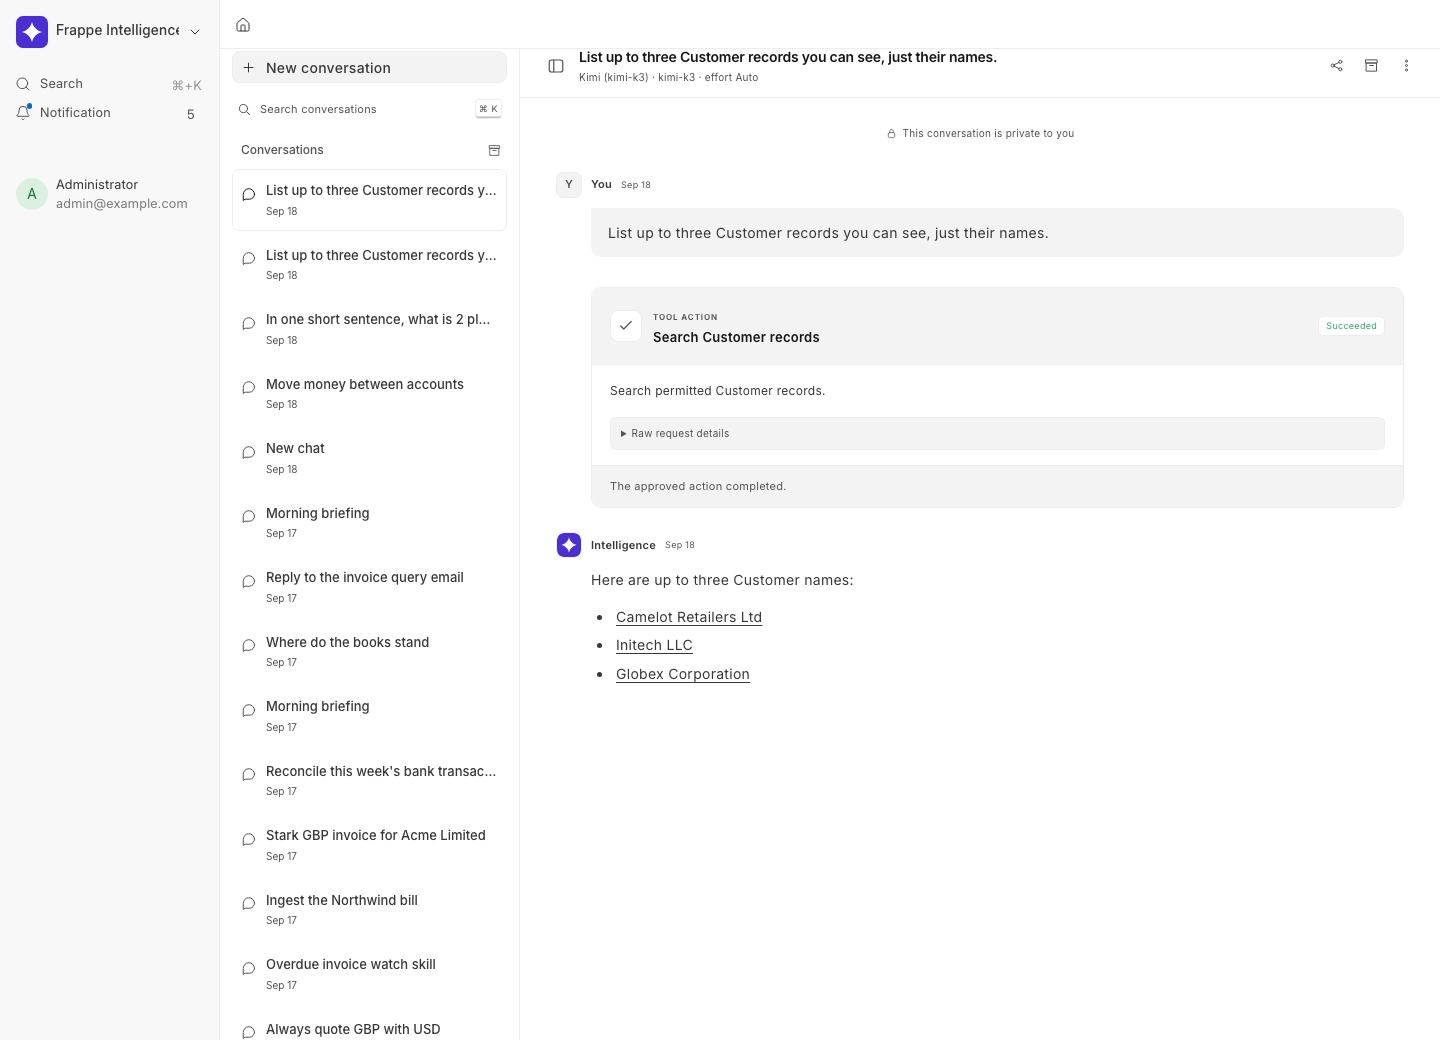
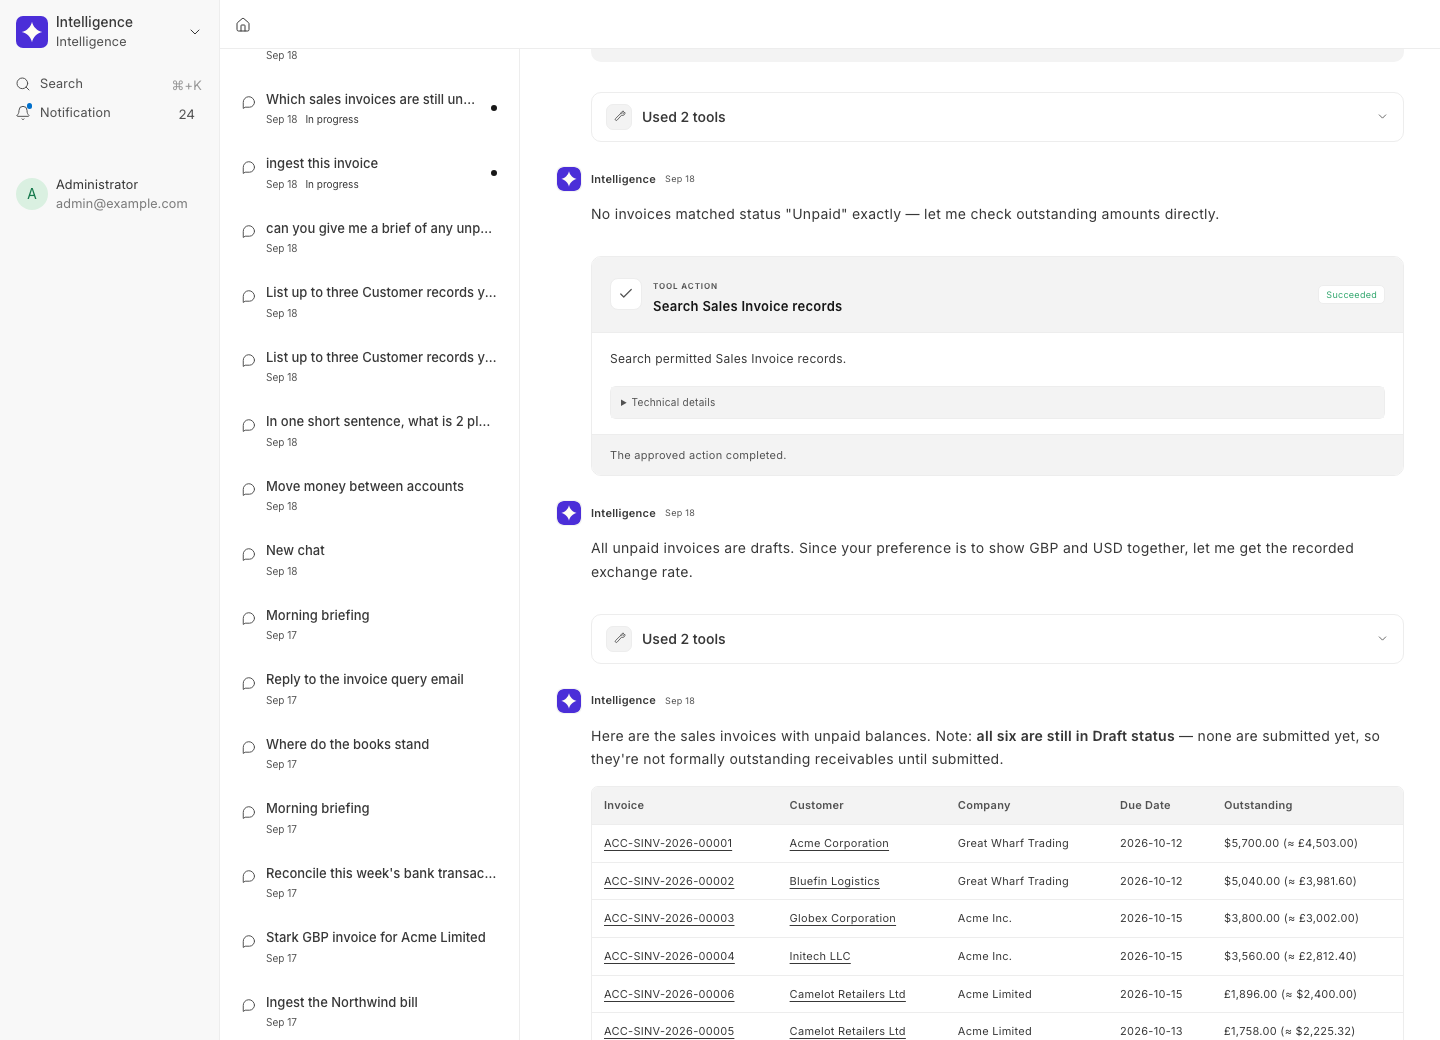
docs: refresh screenshots and verification record for v0.5.0
Swap in captures from the live 0.5.0 verification session: the pending
approval card, the narrated two-tool answer with linked invoices, and
the follow-up answer grouping those invoices by customer. The
verification record now documents the 0.5.0 live pass.

diff --git a/docs/verification.md b/docs/verification.md
@@ -97,6 +97,10 @@ Image `ghcr.io/greatwharf/frappe-intelligence:0.3.2` (commit `8fedcdf`) was depl
 
 Every write in these runs went through an approval card; the assistant holds no service-account privileges.
 
+## Live verification of 0.5.0, 18 September 2026
+
+Image `ghcr.io/greatwharf/frappe-intelligence:0.5.0` (tag `v0.5.0`, commit `2df801a`) was deployed to the same disposable ERPNext v16 site and driven through a real Chromium session. Verified end to end: a single "Intelligence" entry on the apps screen and in the Desk sidebar, same-tab navigation into `/desk/intelligence`, the composer pinned to the viewport at desktop and phone widths, the inline provider picker, approval cards with **Always allow** (the standing grant auto-approved the repeat search in the follow-up run with zero further prompts), collapsed tool groups with narration between steps, and an AI-generated conversation title ("Unpaid Sales Invoices Overview") replacing the placeholder after the first reply. Captures: [screenshots/approval-waiting.png](screenshots/approval-waiting.png), [screenshots/conversation-answer.png](screenshots/conversation-answer.png), [screenshots/follow-up-answer.png](screenshots/follow-up-answer.png).
+
 ## Remaining validation boundaries
 
 - Actual Frappe/ERPNext install, migration, native permission dispatch and RQ/realtime behavior on the target site.

diff --git a/README.md b/README.md
@@ -84,6 +84,10 @@ Captured from a live ERPNext v16 site running the flows recorded in [the verific
 | --- | --- |
 | ![Memory](docs/screenshots/memory.png) | ![Approved search tool and linked records](docs/screenshots/conversation-answer.png) |
 
+| Approvals pause the run, not your day | Follow-ups keep the context |
+| --- | --- |
+| ![Approval card waiting for a decision](docs/screenshots/approval-waiting.png) | ![Follow-up answer grouping invoices by customer](docs/screenshots/follow-up-answer.png) |
+
 Recorded sessions: [welcome tour](docs/screenshots/welcome-tour.webm) and [bank reconciliation end to end](docs/screenshots/bank-reconciliation.webm).
 
 ### Under the Hood
